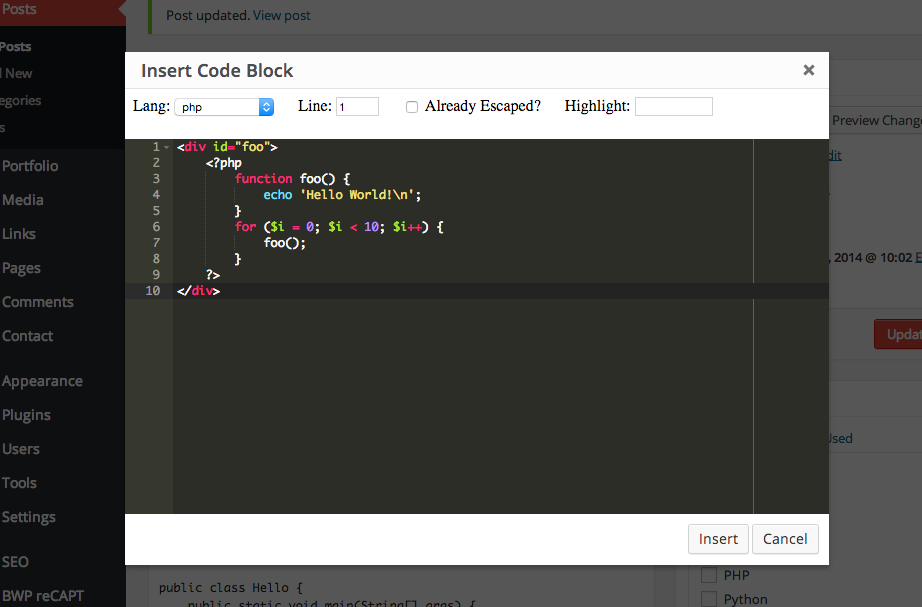
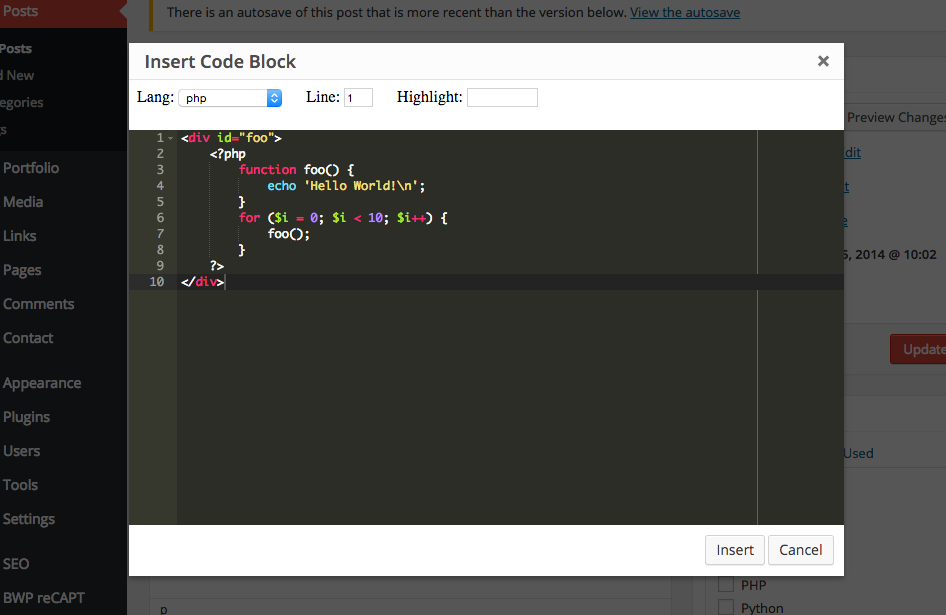
Code editor will always escape the text you enter.

diff --git a/assets/js/code-modal.js b/assets/js/code-modal.js
@@ -106,11 +106,7 @@ jQuery.fn.serializeObject = function() {
                                 var options = jQuery(frame.document.body).find(':input').serializeObject();
                                 var html = frame.editor.getValue();
 
-                                if ( !options.escaped )
-                                {
-                                    options.escaped = 'true';
-                                    html = htmlspecialchars(html);
-                                }
+                                html = htmlspecialchars(html);
 
                                 var elem = document.createElement('pre');
                                 jQuery.each(options, function(key, value) {

diff --git a/partials/modal.php b/partials/modal.php
@@ -275,12 +275,6 @@
             <input type="text" name="line" id="line" value="1" onchange="if(!/^[0-9]*$/.test(this.value))this.value='';" size="3" title="Starting line number. Leave blank for no lines." />
         </label>
 
-
-        <label for="line">
-            <input type="checkbox" name="escaped" id="escaped" value="true" title="Check this if the code entered below is already escaped." />
-            Already Escaped?
-        </label>
-
         <label for="highlight">
             Highlight:
             <input type="text" name="highlight" id="highlight" value="" onchange="if(!/^[0-9,\- ]*$/.test(this.value))this.value='';" size="10" title="Highlight the specified lines. e.g 3-5, 10, 12" />
